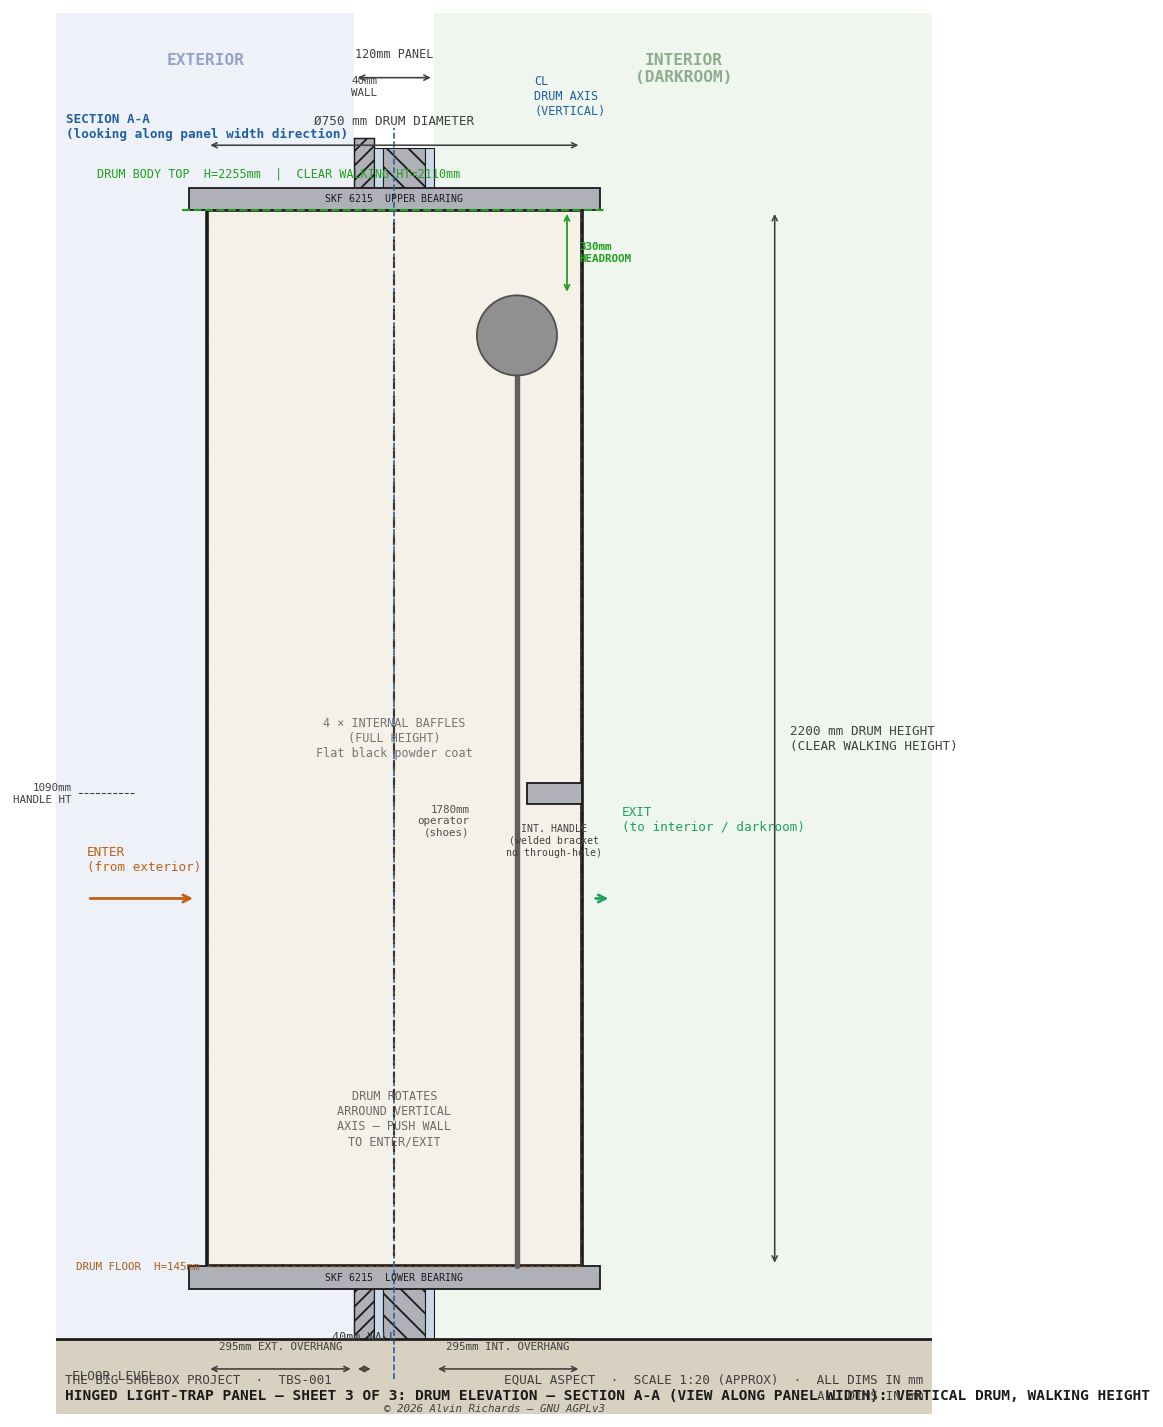
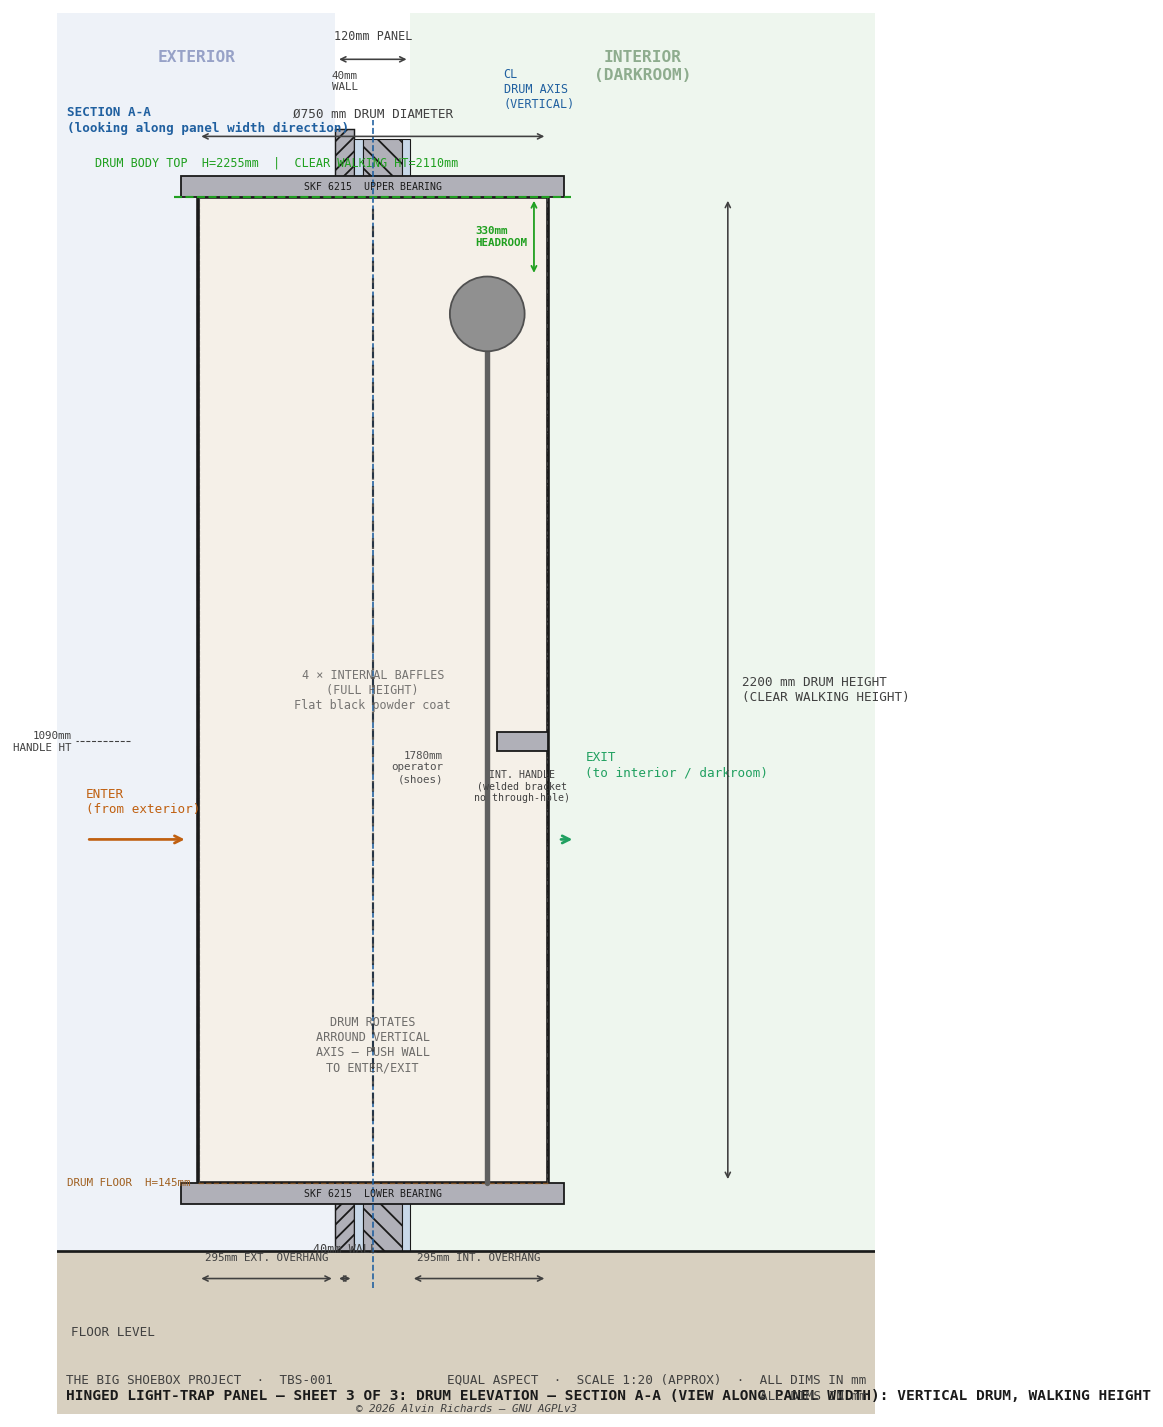
hingepanel sheets 2 & 3: increase bottom padding for title block space

diff --git a/generate_hingepanel_diagram.py b/generate_hingepanel_diagram.py
@@ -342,7 +342,7 @@ def sheet2():
 
     # ── Crop window (zoomed to drum zone + margin) ────────────────────────────
     PAD_X  = 320   # horizontal margin each side
-    PAD_YB = 150   # bottom margin (exterior zone)
+    PAD_YB = 300   # bottom margin (exterior zone + title block space)
     PAD_YT = 180   # top margin (interior zone)
 
     X_LO = D_XL - PAD_X          # = 486mm
@@ -634,7 +634,7 @@ def sheet3():
 
     # ── Data range → figure size ──────────────────────────────────────────────
     PAD_L, PAD_R = 300, 700   # depth-axis margins
-    PAD_B, PAD_T = 150, 350   # height-axis margins
+    PAD_B, PAD_T = 350, 350   # height-axis margins (bottom includes title block space)
 
     X_LO = D_DEPTH_L - PAD_L   # = -595mm
     X_HI = D_DEPTH_R + PAD_R   # = 1155mm  → width 1750mm
@@ -776,7 +776,7 @@ def sheet3():
     ax.annotate("", xy=(GAP_X, H_DRUM_TOP), xytext=(GAP_X, P_HEAD + 2 * HEAD_R),
                 arrowprops=dict(arrowstyle="<->", color="#20A020", lw=1.0,
                                 mutation_scale=7), zorder=9)
-    ax.text(GAP_X + 25, (H_DRUM_TOP + P_HEAD + 2 * HEAD_R) / 2,
+    ax.text(GAP_X - 125, (H_DRUM_TOP + P_HEAD + 2 * HEAD_R) / 2,
             f"{headroom_1780}mm\nHEADROOM",
             ha="left", va="center", fontsize=6, color="#20A020", fontweight="bold", **FONT, zorder=15)
 
@@ -838,7 +838,7 @@ def sheet3():
           f"Ø{DRUM_D} mm DRUM DIAMETER", offset=35, fs=7)
 
     # Panel thickness (horizontal) — offset above bearing top
-    dim_h(ax, Y0_W, Y1_PL2, H_BRG_TOP + 220,
+    dim_h(ax, Y0_W, Y1_PL2, H_BRG_TOP + 250,
           f"{PT}mm PANEL", offset=35, fs=6.5)
 
     # Wall thickness (horizontal) — placed in floor zone with larger offset
